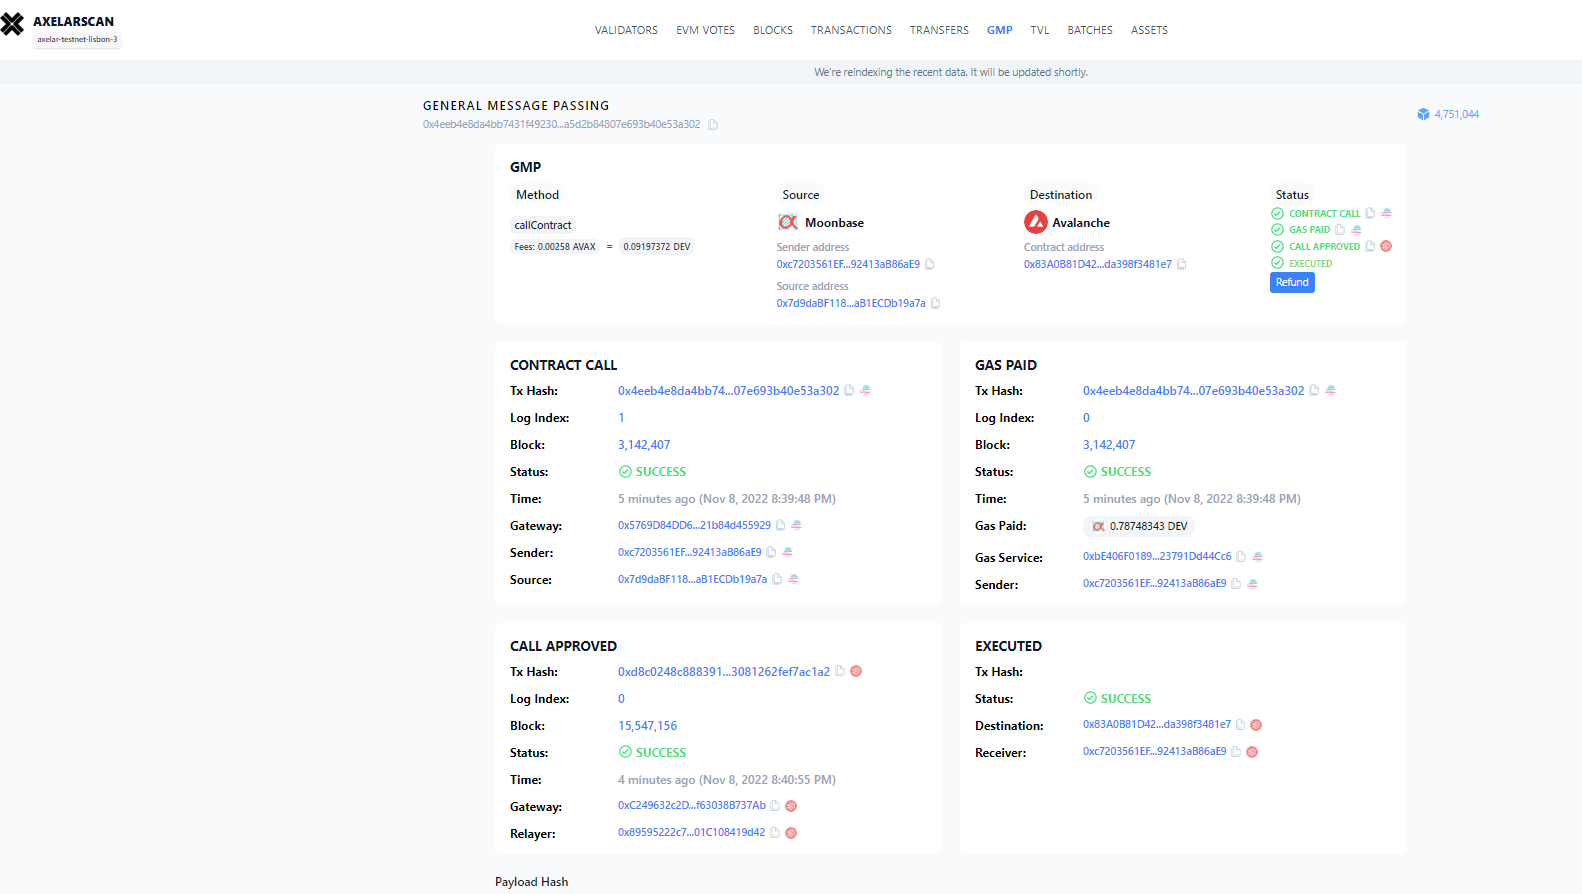
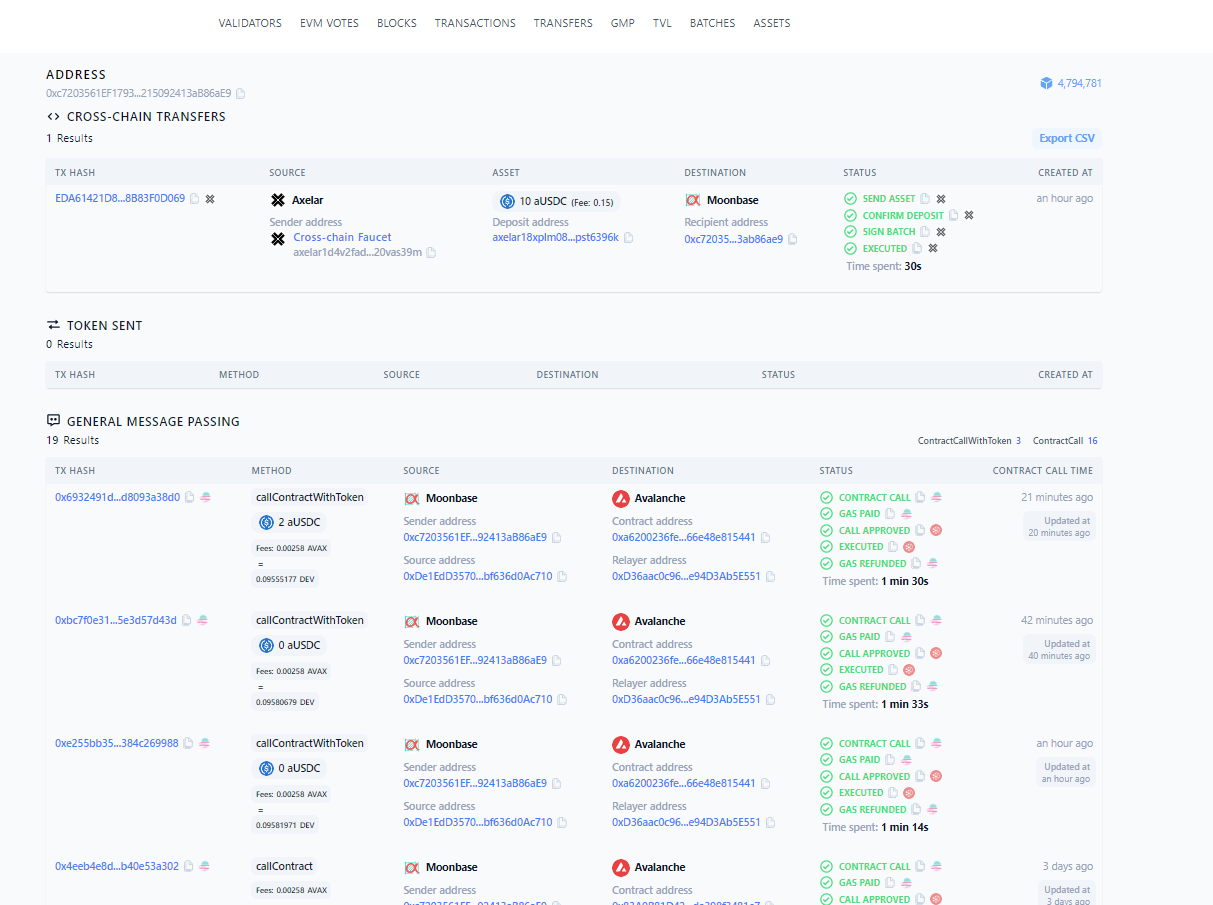
updated: sending tokens crosschain with message

diff --git a/scripts/execute.js b/scripts/execute.js
@@ -8,8 +8,8 @@ const wallet = new Wallet(process.env.PRIV_KEY);
 const moonbeamChain = chains[0];
 const avalancheChain = chains[1];
 
-const MessageSenderContract = require("../artifacts/contracts/MessageSender.sol/MessageSender.json");
-const MessageReceiverContract = require("../artifacts/contracts/MessageReceiver.sol/MessageReceiver.json");
+const CrossPaymentBridgeContractFactory = require("../artifacts/contracts/CrossPaymentBridge.sol/CrossPaymentBridge.json");
+const IERC20 = require('../artifacts/@axelar-network/axelar-gmp-sdk-solidity/contracts/interfaces/IERC20.sol/IERC20.json');
 
 const getGasFee = async (
   sourceChainName,
@@ -25,38 +25,51 @@ async function main() {
   const moonbeamProvider = getDefaultProvider(moonbeamChain.rpc);
   const moonbeamConnectedWallet = wallet.connect(moonbeamProvider);
   const avalancheProvider = getDefaultProvider(avalancheChain.rpc);
-  const messageToSend = "Hello from Moonbeam";
+  const tokenSymbol = "aUSDC";
+  const receiver = "0xc7203561EF179333005a9b81215092413aB86aE9";
+  const amount = 2000000; // 2 aUSDC
+  const note = "A Gift from fella Web3 Dev";
 
-  const senderContract = new Contract(moonbeamChain.messageSender, MessageSenderContract.abi, moonbeamConnectedWallet);
-  const receiverContract = new Contract(avalancheChain.messageReceiver, MessageReceiverContract.abi, avalancheProvider);
-  const message1 = await receiverContract.message();
+  const moonbeamCrossPaymentBridgeContract = new Contract(moonbeamChain.crossPaymentBridgeAddress, CrossPaymentBridgeContractFactory.abi, moonbeamConnectedWallet);
+  const avalancheCrossPaymentBridgeContract = new Contract(avalancheChain.crossPaymentBridgeAddress, CrossPaymentBridgeContractFactory.abi, avalancheProvider);
+  const moonbeamUSDCContract = new Contract(moonbeamChain.usdcContractAddress, IERC20.abi, moonbeamConnectedWallet);
+  const avalancheUSDCContract = new Contract(avalancheChain.usdcContractAddress, IERC20.abi, avalancheProvider);
 
-  console.log("Message on avalanche before: ", message1);
-  console.log("Sending message from moonbeam to avalanche");
+  console.log(`Sending Payment of ${amount / 1000000} ${tokenSymbol} to ${receiver} from moonbeam to avalanche`);
   const gasFee = await getGasFee(EvmChain.MOONBEAM, EvmChain.AVALANCHE, GasToken.MOONBEAM);
   console.log("Gas fee: ", gasFee);
-  const sendMessagTx = await senderContract.sendMessage(
+
+  // approve usdc allowance to bridge on moonbeam
+  const approveTx = await moonbeamUSDCContract.approve(moonbeamChain.crossPaymentBridgeAddress, amount);
+  await approveTx.wait();
+
+  // get allowances of bridge contract to spend usdc
+  const allowance = await moonbeamUSDCContract.allowance(moonbeamConnectedWallet.address, moonbeamChain.crossPaymentBridgeAddress);
+  console.log(`${tokenSymbol} Allowance available to moonbeam bridge address: ${allowance.toString()}`);
+
+  const sendPaymentTx = await moonbeamCrossPaymentBridgeContract.sendTokensWithNote(
     "Avalanche",
-    avalancheChain.messageReceiver,
-    messageToSend,
+    avalancheChain.crossPaymentBridgeAddress,
+    tokenSymbol,
+    amount,
+    receiver,
+    note,
     {
-      value: gasFee
+      value: BigInt(4e17),
+      gasLimit: 3e6
     }
   );
-  await sendMessagTx.wait();
+  await sendPaymentTx.wait();
 
-  console.log("Transaction submitted", sendMessagTx.hash);
+  console.log("Transaction submitted", sendPaymentTx.hash);
 
-  await new Promise((reject, resolve) => {
-    receiverContract.on("Executed", (from, value) => {
-      console.log("Received an event on avalanche: ", from, value);
-      if (value === messageToSend) receiverContract.removeAllListeners("Executed");
-      resolve();
-    });
-  });
+  // check reciever payments
+  const userPayments = await avalancheCrossPaymentBridgeContract.payments(receiver, 0);
+  console.log("User Payments: ", userPayments);
 
-  const message2 = await receiverContract.message();
-  console.log("Message on avalanche after transaction: ", message2);
+  // check user's aUSDC balance on avalanche
+  const userBalance = await avalancheUSDCContract.balanceOf(receiver);
+  console.log(`${tokenSymbol} Balance of ${receiver} on avalanche chain: ${userBalance.toString()}`);
 }
 
 main().then(() => {

diff --git a/scripts/deploy.js b/scripts/deploy.js
@@ -9,35 +9,34 @@ const wallet = new Wallet(process.env.PRIV_KEY);
 const moonbeamChain = chains[0];
 const avalancheChain = chains[1];
 
-const MessageSenderContract = require("../artifacts/contracts/MessageSender.sol/MessageSender.json");
-const MessageReceiverContract = require("../artifacts/contracts/MessageReceiver.sol/MessageReceiver.json");
+const CrossPaymentBridgeContractFactory = require("../artifacts/contracts/CrossPaymentBridge.sol/CrossPaymentBridge.json");
 
 async function main() {
   // deploy sender contract on moonbeam
   const moonbeamProvider = getDefaultProvider(moonbeamChain.rpc);
   const moonbeamConnectedWallet = wallet.connect(moonbeamProvider);
-  const mmonbeamSenderContract = await deployContract(
+  const moonbeamCrossPaymentBridgeContract = await deployContract(
     moonbeamConnectedWallet,
-    MessageSenderContract,
+    CrossPaymentBridgeContractFactory,
     [moonbeamChain.gateway, moonbeamChain.gasReceiver]
   );
 
-  await mmonbeamSenderContract.deployed();
-  console.log("Sender contract deployed to moonbeam at: ", mmonbeamSenderContract.address);
+  await moonbeamCrossPaymentBridgeContract.deployed();
+  console.log("Cross Payment Bridge contract deployed to moonbeam at: ", moonbeamCrossPaymentBridgeContract.address);
 
-  moonbeamChain.messageSender = mmonbeamSenderContract.address;
+  moonbeamChain.crossPaymentBridgeAddress = moonbeamCrossPaymentBridgeContract.address;
 
   const avalancheProvider = getDefaultProvider(avalancheChain.rpc);
   const avalancheConnectedWallet = wallet.connect(avalancheProvider);
-  const avalancheContract = await deployContract(
+  const avalancheCrossPaymentBridgeContract = await deployContract(
     avalancheConnectedWallet,
-    MessageReceiverContract,
+    CrossPaymentBridgeContractFactory,
     [avalancheChain.gateway, avalancheChain.gasReceiver]
   );
 
-  await avalancheContract.deployed();
-  console.log("Receiver contract deployed to avalanche at: ", avalancheContract.address);
-  avalancheChain.messageReceiver = avalancheContract.address;
+  await avalancheCrossPaymentBridgeContract.deployed();
+  console.log("Cross Payment Bridge contract deployed to avalanche at: ", avalancheCrossPaymentBridgeContract.address);
+  avalancheChain.crossPaymentBridgeAddress = avalancheCrossPaymentBridgeContract.address;
 
   // update chains
   const updatedChains = [moonbeamChain, avalancheChain];

diff --git a/README.md b/README.md
@@ -1,20 +1,18 @@
-# axelar-crosschain-dapp
+## Axelar Crosschain Dapp
 
 This project demonstrates a basic crosschain interoperability using axelar network. Axelar delivers secure cross-chain communication. That means that Web3 developers can create dApps that can interact with any asset, any application, on any chain, with one click. You can think of it as Stripe for Web3.
 
-> In this project we will be sending message to the smartcontract on avalanche chain from moonbeam chain.
+**In this project we will be sending tokens from moonbeam chain to avalanche chain with a note/description. A user can send a token (say wETH) from one chain with a “payment information” to an account on another chain. The payment information can be an invoice/description of payment/reason and message to a friend, etc.**
 
-1. Moonbeam Contract Address: [0x7d9daBF118482B47ea6D900f0221aB1ECDb19a7a]: https://moonbase.moonscan.io/address/0x7d9daBF118482B47ea6D900f0221aB1ECDb19a7a (Sender)
+#### Workflow
 
-2. Avalance Contract Address: [0x83A0B81D42AC6d9AeD9b0ECa9D1bda398f3481e7]: https://testnet.snowtrace.io/address/0x83A0B81D42AC6d9AeD9b0ECa9D1bda398f3481e7 (Receiver)
+First, we will deploy smart contract on moonbeam and avalanche chains and then we will send a transaction to the smart contract(on moonbeam chain) with amount of tokens to send and with a note/description. The Axelar Gateway contract will then send the tokens the user on Avalanche chain and the note/description will be stored in a mapping of reciever's address with all the addtional tx related details. See contract for more details.
 
-3. Axelar transactions: [0xc7203561EF179333005a9b81215092413aB86aE9]: https://testnet.axelarscan.io/address/0xc7203561EF179333005a9b81215092413aB86aE9
-
-![Demo](https://github.com/Salmandabbakuti/axelar-crosschain-dapp/blob/main/screenshot.png)
+#### Steps:
 
 > Rename `env.example` to `.env` and add your env specific keys.
 
-Try running some of the following tasks:
+Try running following tasks:
 
 ```shell
 yarn install
@@ -27,3 +25,38 @@ yarn hardhat contracts:execute # executes contract functionality
 
 yarn hardhat help # shows help
 ```
+
+#### Demo
+
+1. Moonbeam Contract Address: [0xDe1EdD357001273Cd6415B225831bf636d0Ac710]: https://moonbase.moonscan.io/address/0xDe1EdD357001273Cd6415B225831bf636d0Ac710 (Sender)
+
+2. Avalance Contract Address: [0xa6200236fe0Ddb1d49838165f2e066e48e815441]: https://testnet.snowtrace.io/address/0xa6200236fe0Ddb1d49838165f2e066e48e815441 (Receiver)
+
+3. Axelar transactions: [0xc7203561EF179333005a9b81215092413aB86aE9]: https://testnet.axelarscan.io/address/0xc7203561EF179333005a9b81215092413aB86aE9
+
+![Demo](https://github.com/Salmandabbakuti/axelar-crosschain-dapp/blob/main/screenshot.png)
+
+```
+$ node scripts/execute.js
+Sending Payment of 2 aUSDC to 0xc7203561EF179333005a9b81215092413aB86aE9 from moonbeam to avalanche
+Gas fee:  809711395556408015
+aUSDC Allowance available to moonbeam bridge address: 2000000
+Transaction submitted 0xbf8c675ce7b02e7134d371e63a928b11364e410d3606533da522544cb67cf538
+User Payments:  [
+  '0x57F1c63497AEe0bE305B8852b354CEc793da43bB',
+  '0xc7203561EF179333005a9b81215092413aB86aE9',
+  '0xc7203561EF179333005a9b81215092413aB86aE9',
+  BigNumber { _hex: '0x01', _isBigNumber: true },
+  'A Gift from fella Web3 Dev',
+  token: '0x57F1c63497AEe0bE305B8852b354CEc793da43bB',
+  sender: '0xc7203561EF179333005a9b81215092413aB86aE9',
+  receiver: '0xc7203561EF179333005a9b81215092413aB86aE9',
+  amount: BigNumber { _hex: '0x01', _isBigNumber: true },
+  note: 'A Gift from fella Web3 Dev'
+]
+aUSDC Balance of 0xc7203561EF179333005a9b81215092413aB86aE9 on avalanche chain: 2000003
+Execution completed
+Done in 33.75s.
+```
+
+**As You can see in the above screenshot, we have sent 2 aUSDC from moonbeam to avalanche with a note/description `note: 'A Gift from fella Web3 Dev'`**.
